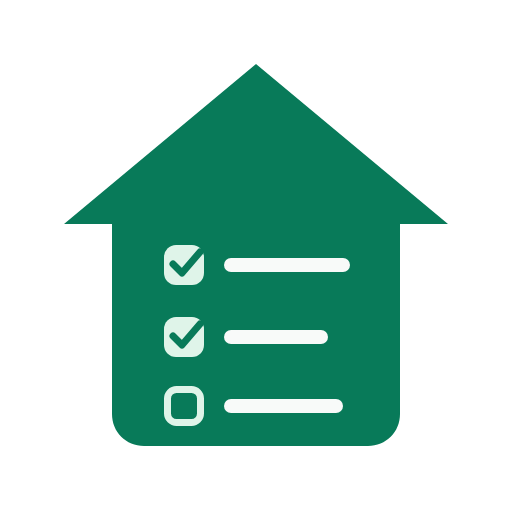
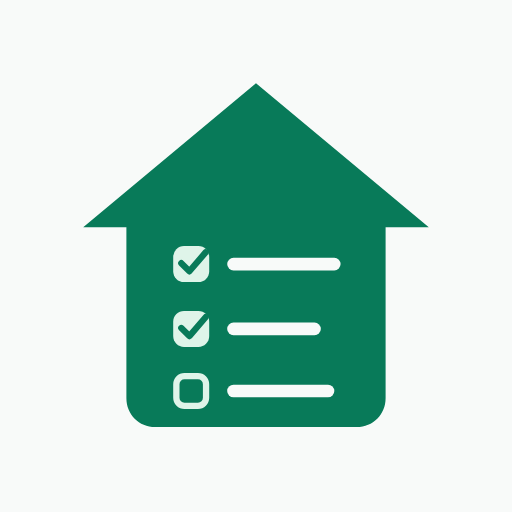
Enhance home page layout with bottom navigation support and update styles

Changed region(s): [[0.125, 0.125, 0.875, 0.875], [0.3125, 0.4688, 0.6875, 0.5625]]

diff --git a/apps/homepocket/pb_hooks/pages/assets/style.css b/apps/homepocket/pb_hooks/pages/assets/style.css
@@ -101,14 +101,21 @@ summary::-webkit-details-marker {
 
 .home-page {
   min-height: 100vh;
+}
+
+.home-page.has-bottom-nav {
   padding-bottom: var(--home-bottom-nav-height);
 }
 
 .home-app {
-  min-height: calc(100vh - var(--home-bottom-nav-height));
+  min-height: 100vh;
   margin: 0 auto;
   padding: 1rem 1rem 1.25rem;
   background: #f8faf9;
+}
+
+.home-page.has-bottom-nav .home-app {
+  min-height: calc(100vh - var(--home-bottom-nav-height));
 }
 
 .home-header {
@@ -856,11 +863,15 @@ summary::-webkit-details-marker {
 
 @media (min-width: 40rem) {
   .home-app {
-    min-height: calc(100vh - var(--home-bottom-nav-height) - 1rem);
+    min-height: calc(100vh - 1rem);
     margin-top: 1rem;
     border-radius: 1.75rem 1.75rem 0 0;
     padding: 1.5rem 1.5rem 2rem;
     box-shadow: 0 16px 50px rgb(36 58 49 / 10%);
+  }
+
+  .home-page.has-bottom-nav .home-app {
+    min-height: calc(100vh - var(--home-bottom-nav-height) - 1rem);
   }
 
   .optional-panel {
